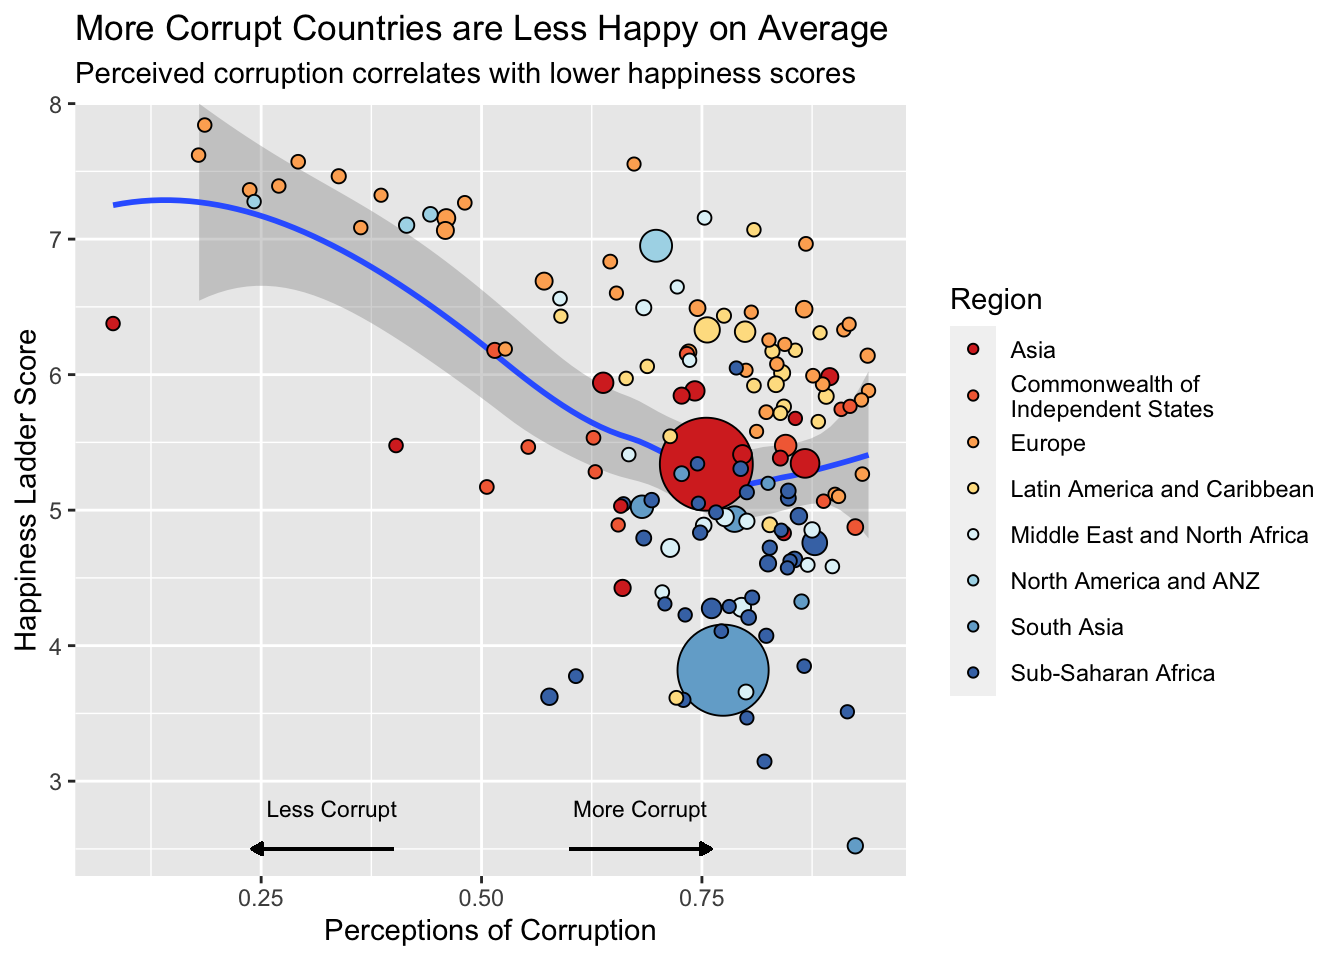
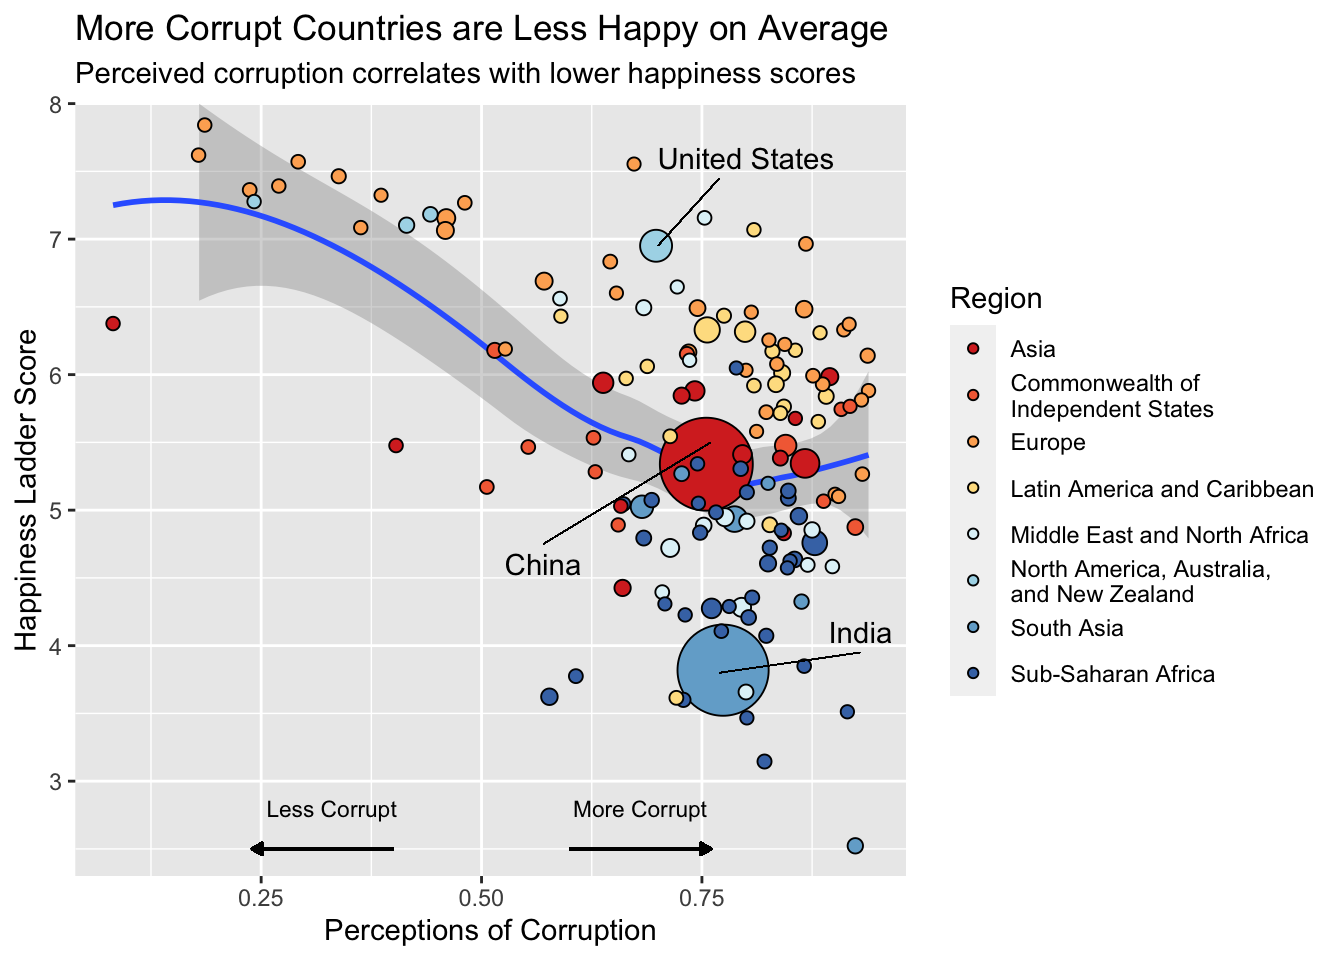
finalized country labels and fixed image sizes

diff --git a/content/post/2021-05-23-face-recognition-and-principle-component-analysis-pca/index.html b/content/post/2021-05-23-face-recognition-and-principle-component-analysis-pca/index.html
@@ -14,12 +14,12 @@ tags: []
 <hr />
 <p>For this project, I investigate how much I can reduce the storage space needed to store a black-and-white photo of my face still have Apple’s facial recognition system recognize me! I will be using Single Value Decomposition to reduce a photo to a lower-rank matrix of grey pixel values that can be stored in a fraction of the space as the original photo.</p>
 <div class="figure">
-<img src="images/original_image.png" width="200" alt="" />
+<img src="images/original_image.png" width="250" alt="" />
 <p class="caption"><em>Original image.</em></p>
 </div>
 <p>In order to process this image using Single Value Decomposition (SVD), I need to make it black and white by setting each pixel value to the average over its RGB values. This is because SVD’s computations are achievable over a 2x2 matrix, but solving SVD on a tensor (3 dimensional matrix) is NP-hard.</p>
 <div class="figure">
-<img src="images/bw_image.png" width="200" alt="" />
+<img src="images/bw_image.png" width="250" alt="" />
 <p class="caption"><em>2x2 matrix representation, unprocessed.</em></p>
 </div>
 <p>Now that the image has been pre-processed, I will run SVD on my (width x height) matrix of single pixel values. SVD is a strategy for apprimxating a matrix using a lower rank in a few steps:</p>
@@ -29,7 +29,7 @@ tags: []
 </ol>
 <p>This reduces our storage space very significantly - from <span class="math inline">\(500 \times 400 = 200,000\)</span> values for the original (500 x 400) matrix to one of <span class="math inline">\((500 \times 10) + (400 \times 1) + (400 \times 10) = 9,400\)</span> values, a 95% decrease in size.</p>
 <p>I will run SVD with rank sizes 10, 25, 50, 100, 200, and 500 to see approximately what rank image is still facially recognizable to Apple’s Photo app.</p>
-<p><img src="images/image_rank_10.png" width="150" alt="Rank 10 matrix image." /> <img src="images/image_rank_25.png" width="150" alt="Rank 25 matrix image." /> <img src="images/image_rank_50%20copy.png" width="150" alt="Rank 50 matrix image." /></p>
-<p><img src="images/image_rank_100.png" width="150" alt="Rank 100 matrix image." /> <img src="images/image_rank_200.png" width="150" alt="Rank 200 matrix image." /> <img src="images/image_rank_500.png" width="150" alt="Rank 500 matrix image." /></p>
+<p><img src="images/image_rank_10.png" width="200" alt="Rank 10 matrix image." /> <img src="images/image_rank_25.png" width="200" alt="Rank 25 matrix image." /> <img src="images/image_rank_50%20copy.png" width="150" alt="Rank 50 matrix image." /></p>
+<p><img src="images/image_rank_200.png" width="150" alt="Rank 100 matrix image." /> <img src="images/image_rank_200.png" width="200" alt="Rank 200 matrix image." /> <img src="images/image_rank_500.png" width="200" alt="Rank 500 matrix image." /></p>
 <p>Low-rank matrices look surprisingly similar to my full-rank face image, and Apple’s Photo app bears this out: it is able to recognize my face at rank 25, going from <span class="math inline">\(1376 \times 1026 = 1,411,776\)</span> values to only <span class="math inline">\((1376 \times 10) + (1026 \times 1) + (1026 \times 10) = 25046\)</span> values, a whopping 98.3% decrease in storage space.</p>
 <p>I hypothesize that SVD works so well at low rank on faces because faces are very symmetric compared to other image types. Because SVD seeks to build the optimal linear combination of vectors to approximate the original image, a highly symmetrical image will be easier to approximate with less possible vector types!</p>

diff --git a/content/post/2021-03-26-world-happiness-EDA/index.html b/content/post/2021-03-26-world-happiness-EDA/index.html
@@ -24,7 +24,7 @@ slug: world-happiness-eda
 <p><img src="{{< blogdown/postref >}}index_files/figure-html/unnamed-chunk-8-1.png" width="672" /></p>
 <p>We see a similar curve for healthy life expectancy as we do for per capita GDP: countries with longer healthy life expectancies are happier on average. (Note that healthy life expectancy means life expectancy adjusted for the suffering brought upon by significant disease and disability). Interestingly here, we see large parts of Europe falling well above the curve compared to their Asian counterparts with similar life expectancies, indicating that other geographically-relevant cultural patterns are at play in differentiating the happiness of those countries with high health.</p>
 <p><img src="{{< blogdown/postref >}}index_files/figure-html/unnamed-chunk-9-1.png" width="672" /></p>
-<p>In the World Happiness Survey, social support is quantified by a binary variable corresponding to the following question: “If you were in trouble, do you have relatives or friends you can count on to help you whenever you need them, or not?”. The average score is obtained for each country between 0 (no social support) and 1 (high social support). We see here that many countries in Europe, North America and ANZ, Latin America and the Caribbean, and Asia report very high levels of social support. India is an interesting outlier in our diagram with very low reported levels of social support; it would be an interesting extension of this work to try and understand the factors influencing social connectedness in India.</p>
+<p>In the World Happiness Survey, social support is quantified by a binary variable corresponding to the following question: “If you were in trouble, do you have relatives or friends you can count on to help you whenever you need them, or not?”. The average score is obtained for each country between 0 (no social support) and 1 (high social support). We see here that many countries in Europe, North America, Australia, and New Zealand, Latin America and the Caribbean, and Asia report very high levels of social support. India is an interesting outlier in our diagram with very low reported levels of social support; it would be an interesting extension of this work to try and understand the factors influencing social connectedness in India.</p>
 <p>The country with the least social support on our graph is Afghanistan, with an average social support score of only .463. Neighboring Pakistan has a social support level of .651, which is higher than India at .603.</p>
 <p><img src="{{< blogdown/postref >}}index_files/figure-html/unnamed-chunk-11-1.png" width="672" /></p>
 <p>Like social support, the freedom of choice metric is a national average over the binary question: “Are you satisfied or dissatisfied with your freedom to choose what you do with your life?”.</p>
